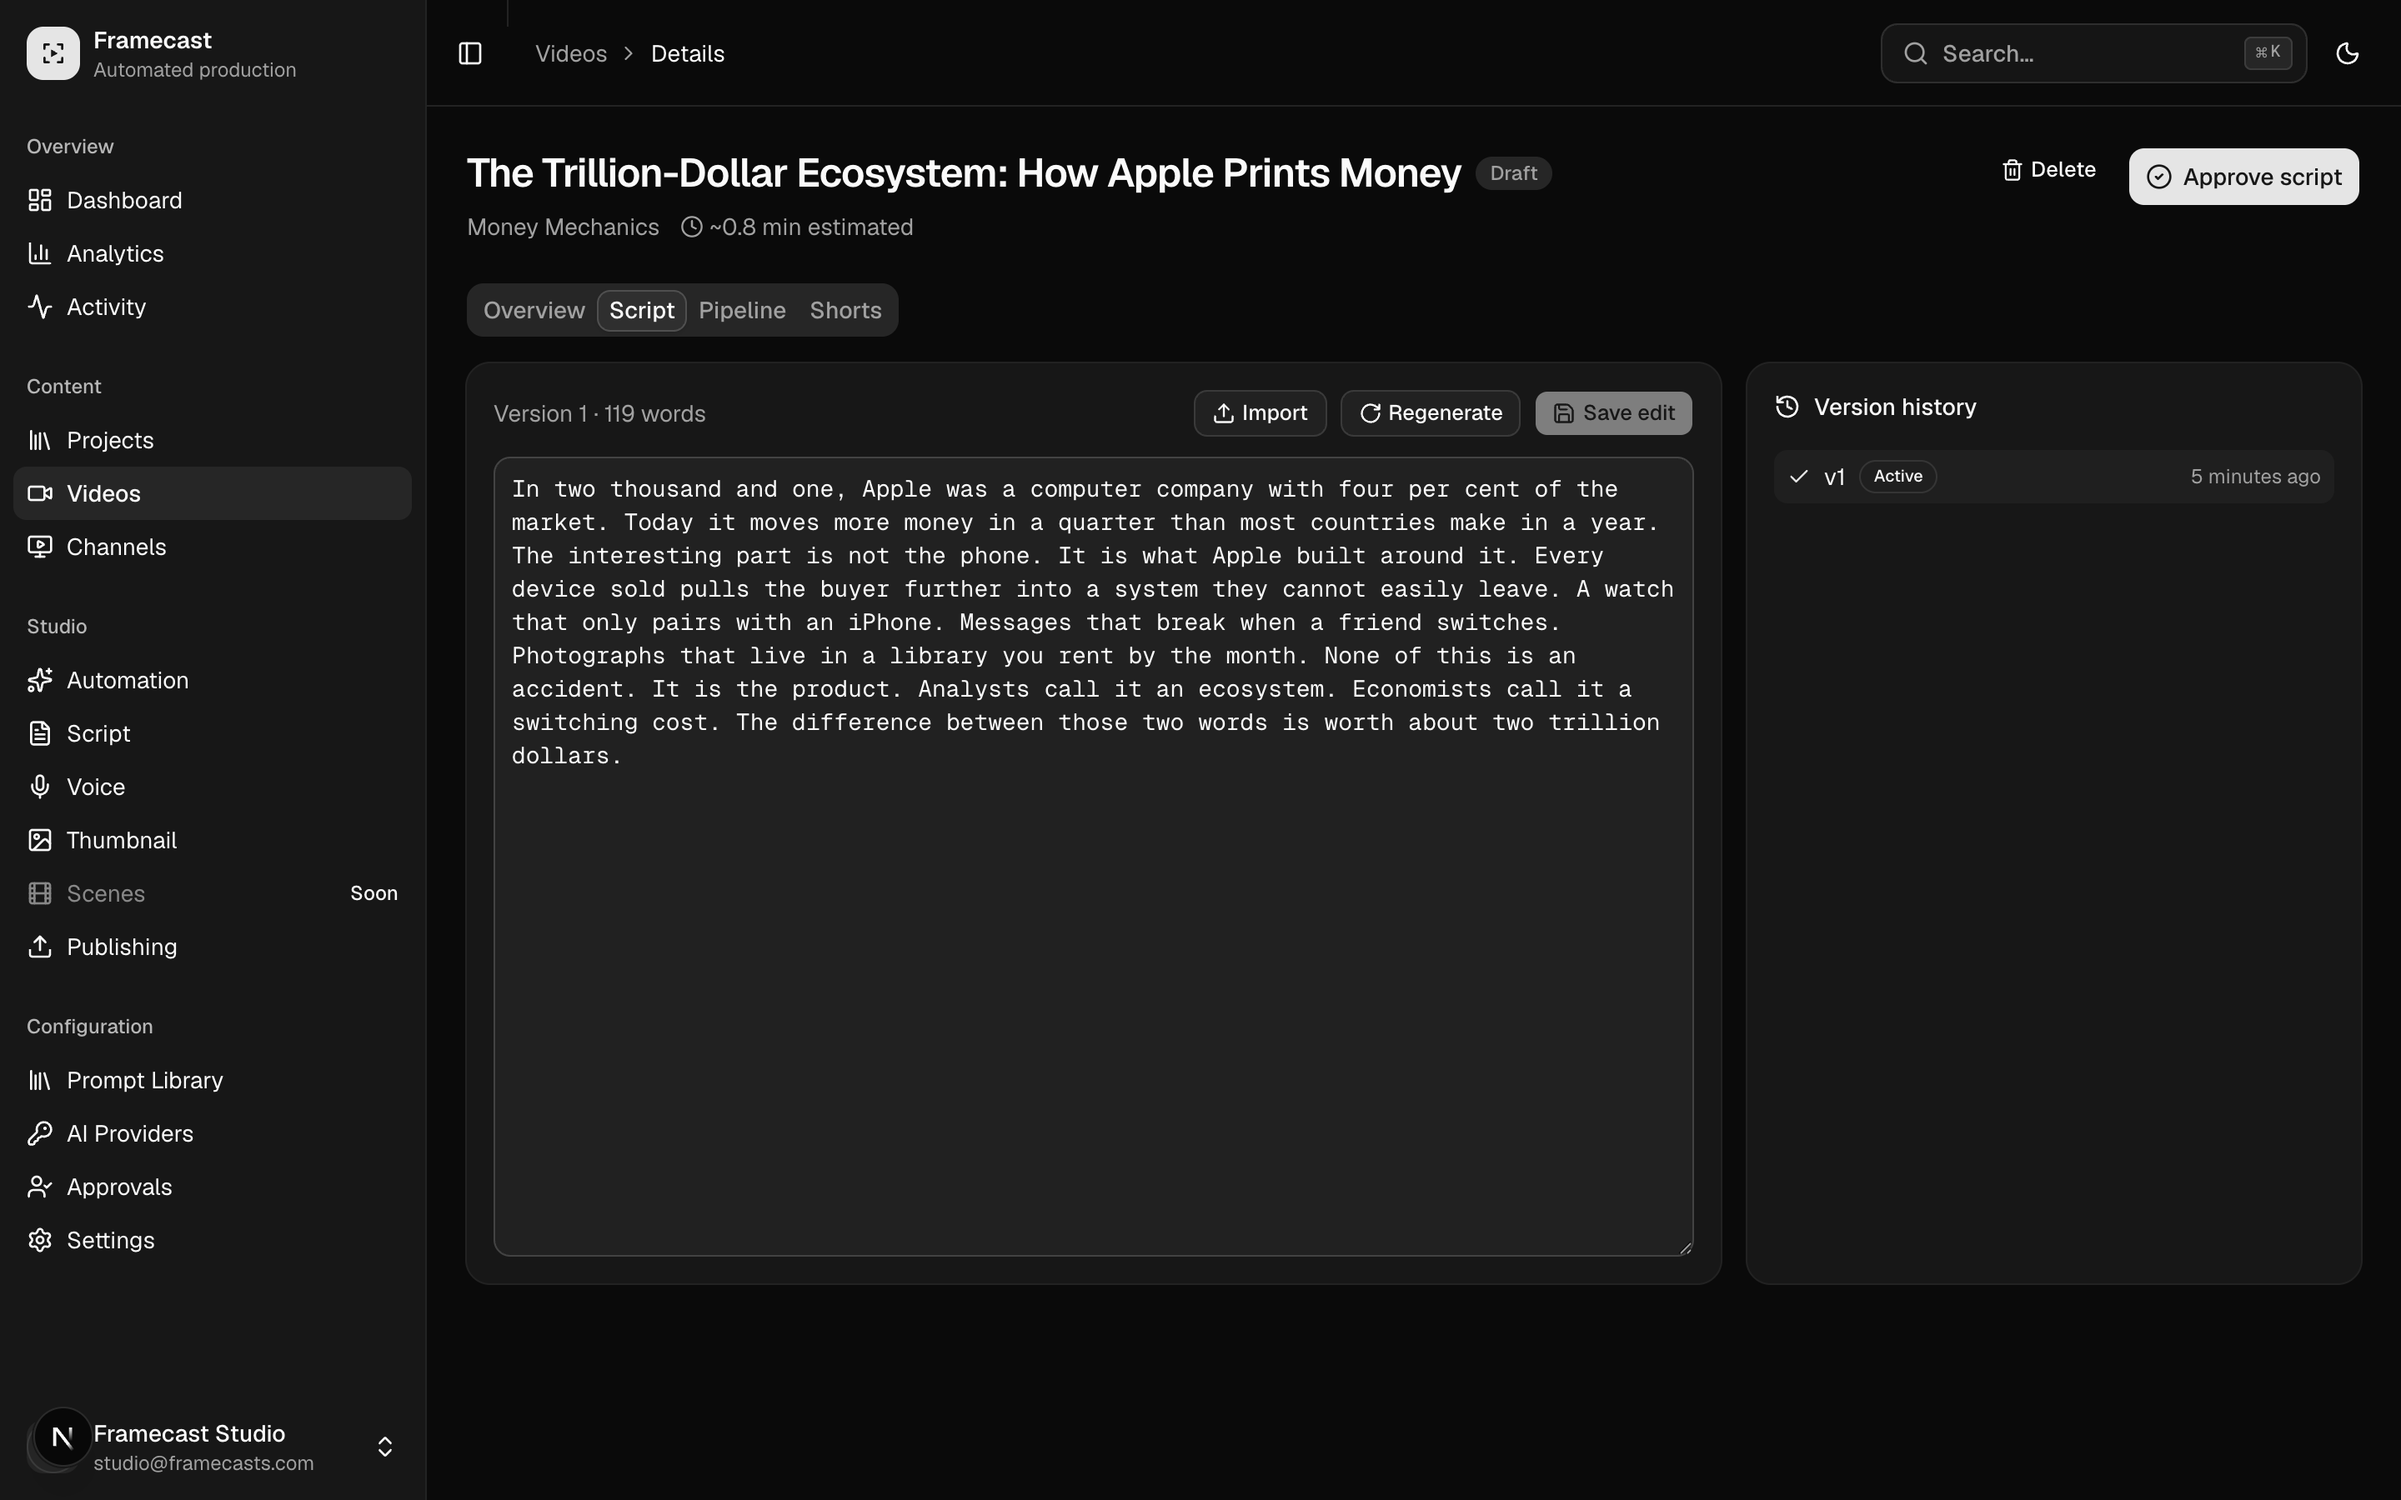
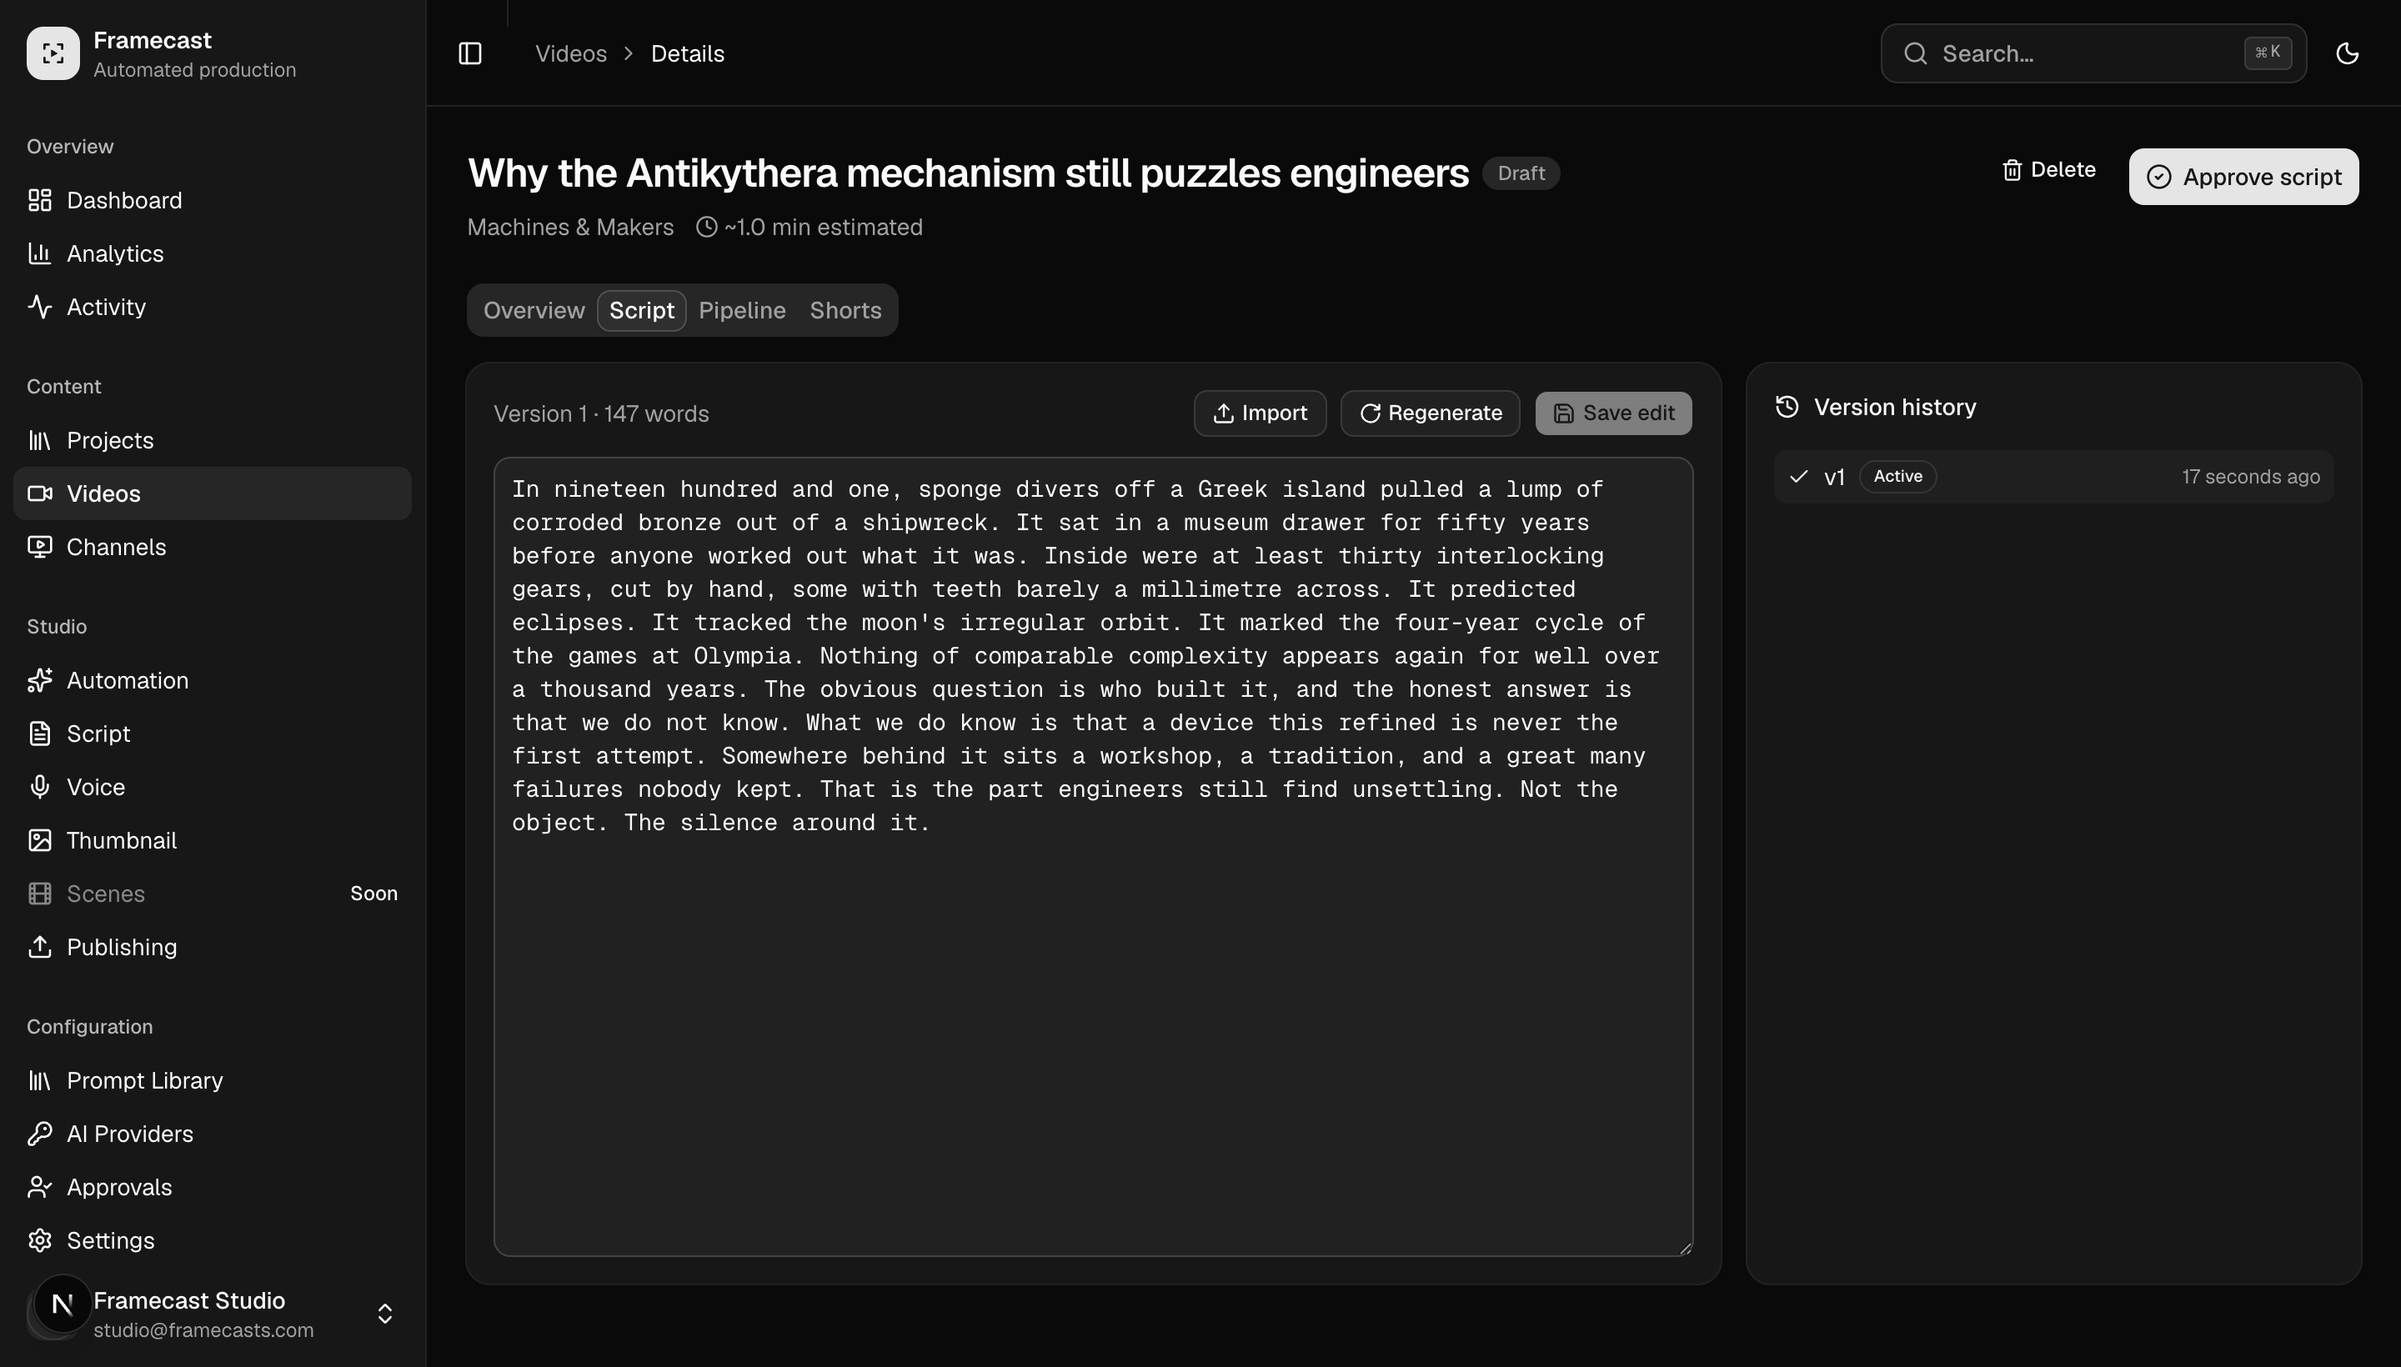
chore: re-shoot the studio screenshot on a neutral topic
The captured video was titled "The Trillion-Dollar Ecosystem: How Apple Prints
Money", and the landing page renders that headline at 48px directly below a
laptop we had just stripped an Apple command key from to avoid depicting one.
Editorial use of a company name is legal and implies nothing, but the page
disagreeing with itself two inches apart is not worth defending on a domain
under review.

Re-seeded on the Antikythera mechanism — the example already used in the
pipeline and output sections, so the page's sample content now agrees with
itself throughout.

Also captured at 1440x820 rather than 900: the taller frame left the bottom
third of the laptop empty below the script box.

diff --git a/scripts/seed-screenshot-fixture.ts b/scripts/seed-screenshot-fixture.ts
@@ -22,15 +22,15 @@ config({ path: ".env.local" });
 config({ path: ".env" });
 
 const SCRIPT = [
-  "In two thousand and one, Apple was a computer company with four per cent of the market.",
-  "Today it moves more money in a quarter than most countries make in a year.",
-  "The interesting part is not the phone. It is what Apple built around it.",
-  "Every device sold pulls the buyer further into a system they cannot easily leave.",
-  "A watch that only pairs with an iPhone. Messages that break when a friend switches.",
-  "Photographs that live in a library you rent by the month.",
-  "None of this is an accident. It is the product.",
-  "Analysts call it an ecosystem. Economists call it a switching cost.",
-  "The difference between those two words is worth about two trillion dollars.",
+  "In nineteen hundred and one, sponge divers off a Greek island pulled a lump of corroded bronze out of a shipwreck.",
+  "It sat in a museum drawer for fifty years before anyone worked out what it was.",
+  "Inside were at least thirty interlocking gears, cut by hand, some with teeth barely a millimetre across.",
+  "It predicted eclipses. It tracked the moon's irregular orbit. It marked the four-year cycle of the games at Olympia.",
+  "Nothing of comparable complexity appears again for well over a thousand years.",
+  "The obvious question is who built it, and the honest answer is that we do not know.",
+  "What we do know is that a device this refined is never the first attempt.",
+  "Somewhere behind it sits a workshop, a tradition, and a great many failures nobody kept.",
+  "That is the part engineers still find unsettling. Not the object. The silence around it.",
 ].join(" ");
 
 async function main() {
@@ -58,7 +58,7 @@ async function main() {
   });
 
   const project = await prisma.project.create({
-    data: { userId: user.id, name: "Money Mechanics" },
+    data: { userId: user.id, name: "Machines & Makers" },
   });
 
   // DRAFT deliberately: that is the state where the script panel and the
@@ -68,8 +68,8 @@ async function main() {
     data: {
       userId: user.id,
       projectId: project.id,
-      title: "The Trillion-Dollar Ecosystem: How Apple Prints Money",
-      topic: "how Apple's ecosystem creates switching costs",
+      title: "Why the Antikythera mechanism still puzzles engineers",
+      topic: "the Antikythera mechanism and what it implies about lost engineering",
       status: "DRAFT",
     },
   });
